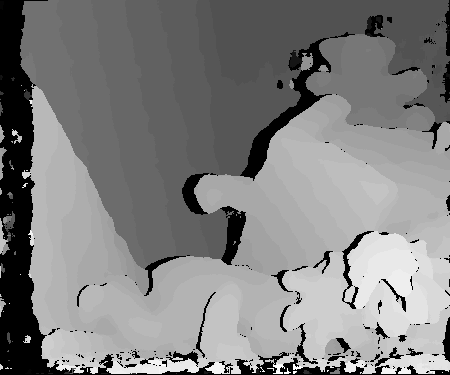
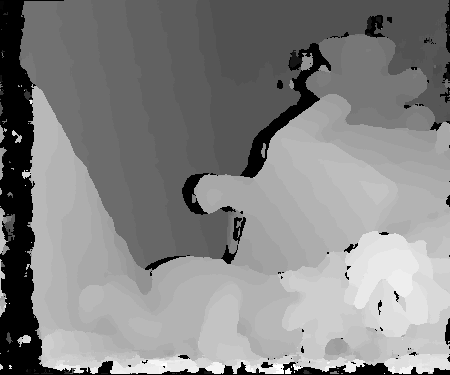
fixed Image reconstruction

diff --git a/run_stereo_simulation_verilog.py b/run_stereo_simulation_verilog.py
@@ -2,23 +2,44 @@ import os
 import filecmp
 import subprocess
 
+
 import numpy as np 
 from PIL import Image
 
 import scripts.Image_input_test as Image_input_test
 import scripts.Image_result_test as Image_result_test
 
+import argparse
+parser = argparse.ArgumentParser(description='Stereo Vision Core Simulation')
+parser.add_argument('-D','--Disparity', default=64, type=int, help='disparity levels')
+parser.add_argument('-Wc','--Wcensus', default=7, type=int, help='Census window size')
+parser.add_argument('-Wh','--Whamming', default=13, type=int, help='Hamming window size')
+parser.add_argument('-N','--Nbits', default=8, type=int, help='Number of bits per pixel')
+parser.add_argument('-im','--image', default='Tsukuba', type=str, help='image: [Tsukuba, Cones, Teddy]')
+
+
 def main():
     # this are the configuration parameters of the accelerator passed trought the TB
-    D=48
-    Wc=7
-    Wh=13
-    N=8
+    args=parser.parse_args()
+    D=args.Disparity
+    Wc=args.Wcensus
+    Wh=args.Whamming
+    N=args.Nbits
 
+    image=args.image
+    # These are the input images to be evaluated
+    if image=="Tsukuba":
+        Thresh=16
+    if image=="Cones":
+        Thresh=64
+    if image=="Teddy":
+        Thresh=48
+    if image=="Venus":
+        Thresh=32
     # These are the input images to be evaluated
 
-    Left_image = np.array(Image.open("./dataset/im6L.png").convert('L'))
-    Right_image = np.array(Image.open("./dataset/im6R.png").convert('L'))
+    Left_image = np.array(Image.open(f"./dataset/{image}L.png").convert('L'))
+    Right_image = np.array(Image.open(f"./dataset/{image}R.png").convert('L'))
 
     im_shape=Left_image.shape
 
@@ -53,7 +74,7 @@ def main():
 
 
     # This function takes the output results of the simulation and create the disparity map result as image
-    Image_result_test.create_disparity_map(N_filas,N_columnas,3)
+    Image_result_test.create_disparity_map(N_filas,N_columnas,3,Thresh)
 
     # removing parameters from previous configurations:
     File_path=os.getcwd()

diff --git a/run_stereo_simulation.py b/run_stereo_simulation.py
@@ -8,18 +8,36 @@ from PIL import Image
 import scripts.Image_input_test as Image_input_test
 import scripts.Image_result_test as Image_result_test
 
+import argparse
+parser = argparse.ArgumentParser(description='Stereo Vision Core Simulation')
+parser.add_argument('-D','--Disparity', default=64, type=int, help='disparity levels')
+parser.add_argument('-Wc','--Wcensus', default=7, type=int, help='Census window size')
+parser.add_argument('-Wh','--Whamming', default=13, type=int, help='Hamming window size')
+parser.add_argument('-N','--Nbits', default=8, type=int, help='Number of bits per pixel')
+parser.add_argument('-im','--image', default='Tsukuba', type=str, help='image: [Tsukuba, Cones, Teddy]')
+
 
 def main():
     # this are the configuration parameters of the accelerator passed trought the TB
-    D=48
-    Wc=7
-    Wh=13
-    N=8
+    args=parser.parse_args()
+    D=args.Disparity
+    Wc=args.Wcensus
+    Wh=args.Whamming
+    N=args.Nbits
 
+    image=args.image
     # These are the input images to be evaluated
+    if image=="Tsukuba":
+        Thresh=16
+    if image=="Cones":
+        Thresh=64
+    if image=="Teddy":
+        Thresh=48
+    if image=="Venus":
+        Thresh=32
 
-    Left_image = np.array(Image.open("./dataset/imL.png").convert('L'))
-    Right_image = np.array(Image.open("./dataset/imR.png").convert('L'))
+    Left_image = np.array(Image.open(f"./dataset/{image}L.png").convert('L'))
+    Right_image = np.array(Image.open(f"./dataset/{image}R.png").convert('L'))
 
     im_shape=Left_image.shape
 
@@ -53,12 +71,12 @@ def main():
 
 
     # This function takes the output results of the simulation and create the disparity map result as image
-    Image_result_test.create_disparity_map(N_filas,N_columnas,3)
+    Image_result_test.create_disparity_map(N_filas,N_columnas,3,Thresh)
 
     # removing parameters from previous configurations:
     File_path=os.getcwd()
     print(File_path)
-    os.system("rm *.txt")
+    #os.system("rm *.txt")
 
 if __name__=='__main__':
     main()

diff --git a/README.md b/README.md
@@ -50,9 +50,10 @@ When the simulation ends, you will obtain a new image called Disparity_map.png, 
 | | | | |
 |:-:|:-:|:-:|:-:|
 |Image| Left Image          |      Right Image     |     Output Result in grayscale    |
-|Tsukuba| ![Leftimg](dataset/imL.png) | ![rightim](dataset/imR.png)  |![Disparity_map](docs/img/Disparity_map_tsukuba.png)|
-|Cones| ![Leftimg](dataset/im2L.png) | ![rightim](dataset/im2R.png)  |![Disparity_map](docs/img/Disparity_map_Cones.png)|
-|Teddy| ![Leftimg](dataset/im6L.png) | ![rightim](dataset/im6R.png)  |![Disparity_map](docs/img/Disparity_map_teddy.png)|
+|Tsukuba| ![Leftimg](dataset/TsukubaL.png) | ![rightim](dataset/TsukubaR.png)  |![Disparity_map](docs/img/Disparity_map_tsukuba.png)|
+|Cones| ![Leftimg](dataset/ConesL.png) | ![rightim](dataset/ConesR.png)  |![Disparity_map](docs/img/Disparity_map_Cones.png)|
+|Teddy| ![Leftimg](dataset/TeddyL.png) | ![rightim](dataset/TeddyR.png)  |![Disparity_map](docs/img/Disparity_map_teddy.png)|
+|Venus| ![Leftimg](dataset/VenusL.png) | ![rightim](dataset/VenusR.png)  |![Disparity_map](docs/img/Disparity_map_venus.png)|
 
 ## How to Cite?
 
